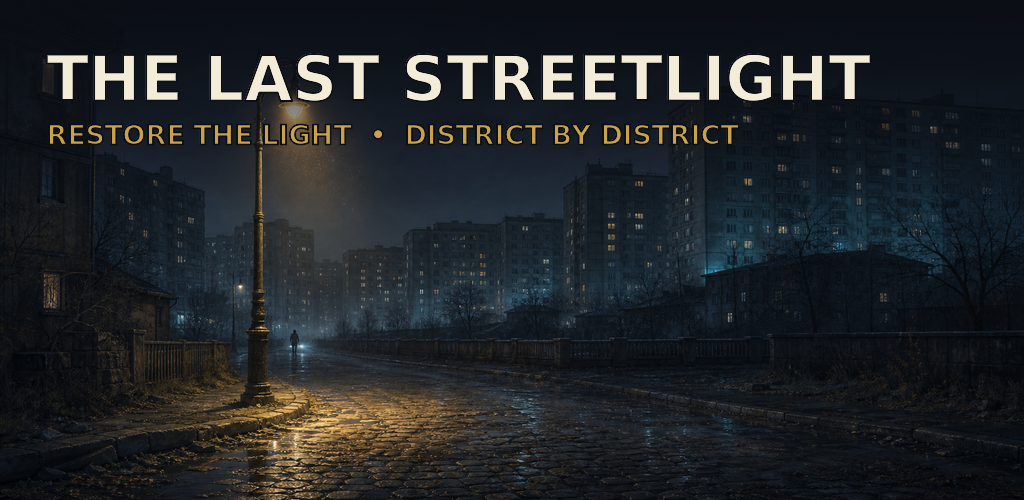
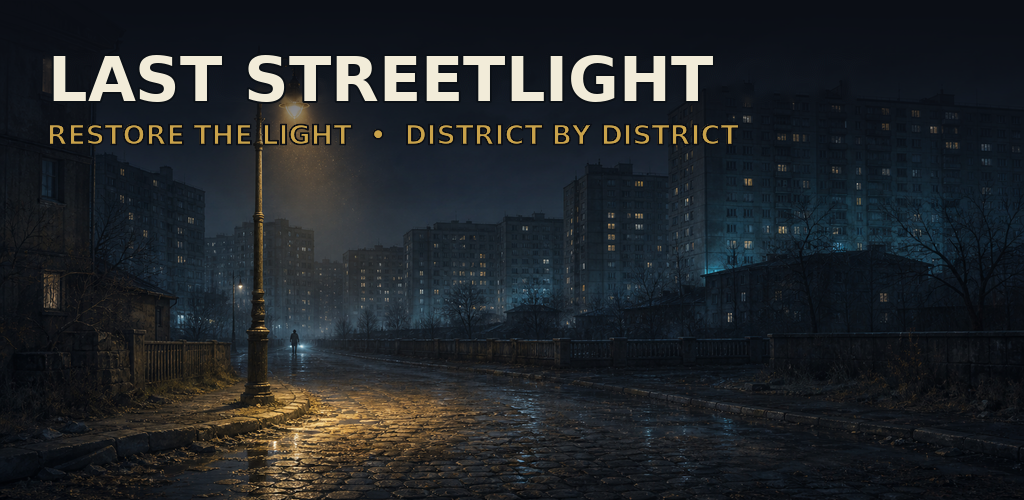
Rename the game to Last Streetlight
Drop "The" from the display name: en.json menu_title and SHARE_TEXT, the
splash, menu and credits label defaults, the Windows product name, the
Android launcher label (was "TLS"), store copy and the living doc titles.
Re-set the title in store/feature-graphic.png and
store/trailer/presskit_1600x900.png, the only shipped images with the old
name baked in (found by OCR over all 924 PNGs).

project.godot config/name stays on purpose: Godot derives the user://
profile folder from it, so renaming it needs a profile move first. Steps
are in docs/ASSET_PROMPT_PACK.md section 0.

Claude-Session: https://claude.ai/code/session_01AD4dKwX3WaU5KDqXmvfCdi

Changed region(s): [[0.0312, 0.09, 0.8438, 0.21]]

diff --git a/store/press-kit.md b/store/press-kit.md
@@ -1,4 +1,4 @@
-# Press kit — THE LAST STREETLIGHT
+# Press kit — LAST STREETLIGHT
 
 Owner: CONTENT+ASSETS+STORE agent. Send this file (or its sections) with every
 review code. Spoiler ceiling: **Act I only** (districts 1–3 topic guidance);
@@ -6,7 +6,7 @@ the half-lit-city ending still is cleared, ending text/Architect identity never 
 
 ## Fact sheet
 
-- **Title:** The Last Streetlight / Последний фонарь
+- **Title:** Last Streetlight / Последний фонарь
 - **Tagline:** "Restore the light. Every streetlight is life." / «Верни свет. Каждый фонарь — жизнь.»
 - **Genre:** Stealth-horror FPS, single-player, offline-first
 - **Hook:** 11 connected districts, one continuous blackout city — every street
@@ -79,13 +79,13 @@ reviewers don't self-impose a delay that doesn't exist.
 ## Contact template (fill before sending)
 
 ```
-Subject: Review copy — THE LAST STREETLIGHT (stealth-horror FPS)
+Subject: Review copy — LAST STREETLIGHT (stealth-horror FPS)
 
 Hi <name>,
 
 <One line on why them: e.g. "loved your <outlet> piece on <game>.">
 
-THE LAST STREETLIGHT is a stealth-horror FPS about bringing the light back
+LAST STREETLIGHT is a stealth-horror FPS about bringing the light back
 to a dead city: 11 connected districts, zero loading screens, and every
 street you save stays lit. Tagline: "Restore the light. Every streetlight
 is life."

diff --git a/docs/ART_AUDIO_PROMPT.md b/docs/ART_AUDIO_PROMPT.md
@@ -1,4 +1,4 @@
-# THE LAST STREETLIGHT — ART & AUDIO PROMPT (10/10 Target)
+# LAST STREETLIGHT — ART & AUDIO PROMPT (10/10 Target)
 
 ## General Style Direction
 - Dark post-apocalyptic urban atmosphere. Muted palette dominated by deep charcoal (#1a1a1a), slate blue (#2c3e50), rust orange (#b4452f), and amber/gold (#c9a24a) as the only warm accent.
@@ -135,7 +135,7 @@
 - **Top-center (objective)**: Current quest objective text, 300×30px, #d8d2c4
 
 ### Menu Screens (all 26 screens per SCREEN_LIST)
-- **Main Menu**: 1920×1080, bg #0c1016, title "THE LAST STREETLIGHT" in #c9a24a (font_size 48), 5 buttons stacked vertically (each 300×50px, #141b24 bg, #2a3340 border, #c9a24a text on hover)
+- **Main Menu**: 1920×1080, bg #0c1016, title "LAST STREETLIGHT" in #c9a24a (font_size 48), 5 buttons stacked vertically (each 300×50px, #141b24 bg, #2a3340 border, #c9a24a text on hover)
 - **Settings**: 800×600 panel, sliders for volume (0-100, #c9a24a fill), toggle for fullscreen, sensitivity 0.5-2.0×, deadzone 5-25%
 - **Inventory**: 600×400, grid of 4×3 slots (64×64px each, #141b24 bg, #2a3340 border, item icon centered)
 - **Journal**: 700×500, quest list with checkboxes, objectives indented

diff --git a/store/listing.md b/store/listing.md
@@ -1,4 +1,4 @@
-# Play Store listing kit — THE LAST STREETLIGHT
+# Play Store listing kit — LAST STREETLIGHT
 
 Play-Store-ready listing text. English and Russian (the game's two store-listing languages;
 in-game RU title is **ПОСЛЕДНИЙ ФОНАРЬ** per `data/i18n/ru.json` `menu_title`). Source of truth
@@ -17,7 +17,7 @@ copy* changed only where the claim audit required it.
 
 ## Title
 
-- **EN:** The Last Streetlight
+- **EN:** Last Streetlight
 - **RU:** Последний фонарь
 
 ## Tagline (quotable — trailers, Shorts, press-kit, socials)
@@ -194,7 +194,7 @@ Title + tagline are the shipped in-game `menu_title` / `menu_subtitle`, byte-ide
 
 ### en — English
 
-- **Title:** THE LAST STREETLIGHT
+- **Title:** LAST STREETLIGHT
 - **Tagline:** A survivor in an eternal night. Bring the light back to the city.
 - **Short (70/80):** Restore the light. Stealth horror FPS where every streetlight is life.
 - **Full description:** see the EN/RU master block above (byte-untouched).

diff --git a/docs/TRAILER_STORYBOARD.md b/docs/TRAILER_STORYBOARD.md
@@ -1,4 +1,4 @@
-# TRAILER_STORYBOARD.md — THE LAST STREETLIGHT (60–90 s target cut: ~75 s)
+# TRAILER_STORYBOARD.md — LAST STREETLIGHT (60–90 s target cut: ~75 s)
 For human capture/recording. All referenced assets exist in-repo. No text overlays except the existing game logo at shot 10 (added in edit, frame left clear). Palette lock for grading: warm brass #c9a24a vs cold night #1a2133; apply assets/shaders/grain_overlay.gdshader look (grain 10%, vignette 35%) over all footage.
 
 | # | Time | Camera | Action | Lighting note | Asset reference |

diff --git a/store/privacy-policy-template.md b/store/privacy-policy-template.md
@@ -25,13 +25,13 @@ name and dates are already filled in, EN and RU alike).
 
 ---
 
-# Privacy Policy — The Last Streetlight
+# Privacy Policy — Last Streetlight
 
 _Effective date: 2026-09-13_
 _Last updated: 2026-09-13_
 
 ## 1. Who we are
-This policy explains what data, if any, the game **The Last Streetlight** ("the App", "we", "us")
+This policy explains what data, if any, the game **Last Streetlight** ("the App", "we", "us")
 collects. The developer can be reached at: **[contact email / support URL]**.
 
 ## 2. Summary

diff --git a/store/screenshots/README.md b/store/screenshots/README.md
@@ -1,4 +1,4 @@
-# Play Store screenshots — THE LAST STREETLIGHT (8 EN, 1920×1080)
+# Play Store screenshots — LAST STREETLIGHT (8 EN, 1920×1080)
 
 Owner: CONTENT+ASSETS agent (visual pass). Eight upload-ready Play Console screenshots,
 1920×1080, 24-bit PNG (each ≤ 2.1 MB), composed per `store/screenshot-plan-detailed.md`.

diff --git a/docs/STORE_KIT.md b/docs/STORE_KIT.md
@@ -53,7 +53,7 @@ page"). Skeleton, grounded in the game's actual data footprint (verified this se
 analytics SDK, no account system found in `scripts/`):
 
 ```
-# Privacy Policy — THE LAST STREETLIGHT
+# Privacy Policy — LAST STREETLIGHT
 
 Effective date: <fill in at publish>
 

diff --git a/AGENTS.md b/AGENTS.md
@@ -1,4 +1,4 @@
-# The Last Streetlight: agent instructions
+# Last Streetlight: agent instructions
 
 One source of truth for every coding agent. ZCode loads this file at the start of each task;
 Claude Code loads it through `CLAUDE.md` (`@AGENTS.md`). Edit this file, never a copy.

diff --git a/store/trailer/README.md b/store/trailer/README.md
@@ -1,4 +1,4 @@
-# Trailer / viral-shorts kit — THE LAST STREETLIGHT
+# Trailer / viral-shorts kit — LAST STREETLIGHT
 
 Owner: CONTENT+ASSETS+STORE agent. All art generated in-session 2026-09-10
 (Arena image generation, text-to-image, palette-locked per `docs/STYLE_GUIDE.md`

diff --git a/docs/store/play_store.md b/docs/store/play_store.md
@@ -1,4 +1,4 @@
-# Google Play Store listing — THE LAST STREETLIGHT
+# Google Play Store listing — LAST STREETLIGHT
 
 Source of truth for every gameplay claim below: `docs/GDD.md`. Every
 number in this file traces to a specific GDD section (cited inline) — if

diff --git a/store/review-responses.md b/store/review-responses.md
@@ -1,4 +1,4 @@
-# Review-response playbook — THE LAST STREETLIGHT
+# Review-response playbook — LAST STREETLIGHT
 
 Ready-to-paste replies for Google Play / App Store reviews. Two languages
 (EN + RU — the store-listing languages). Keep replies short, name the
